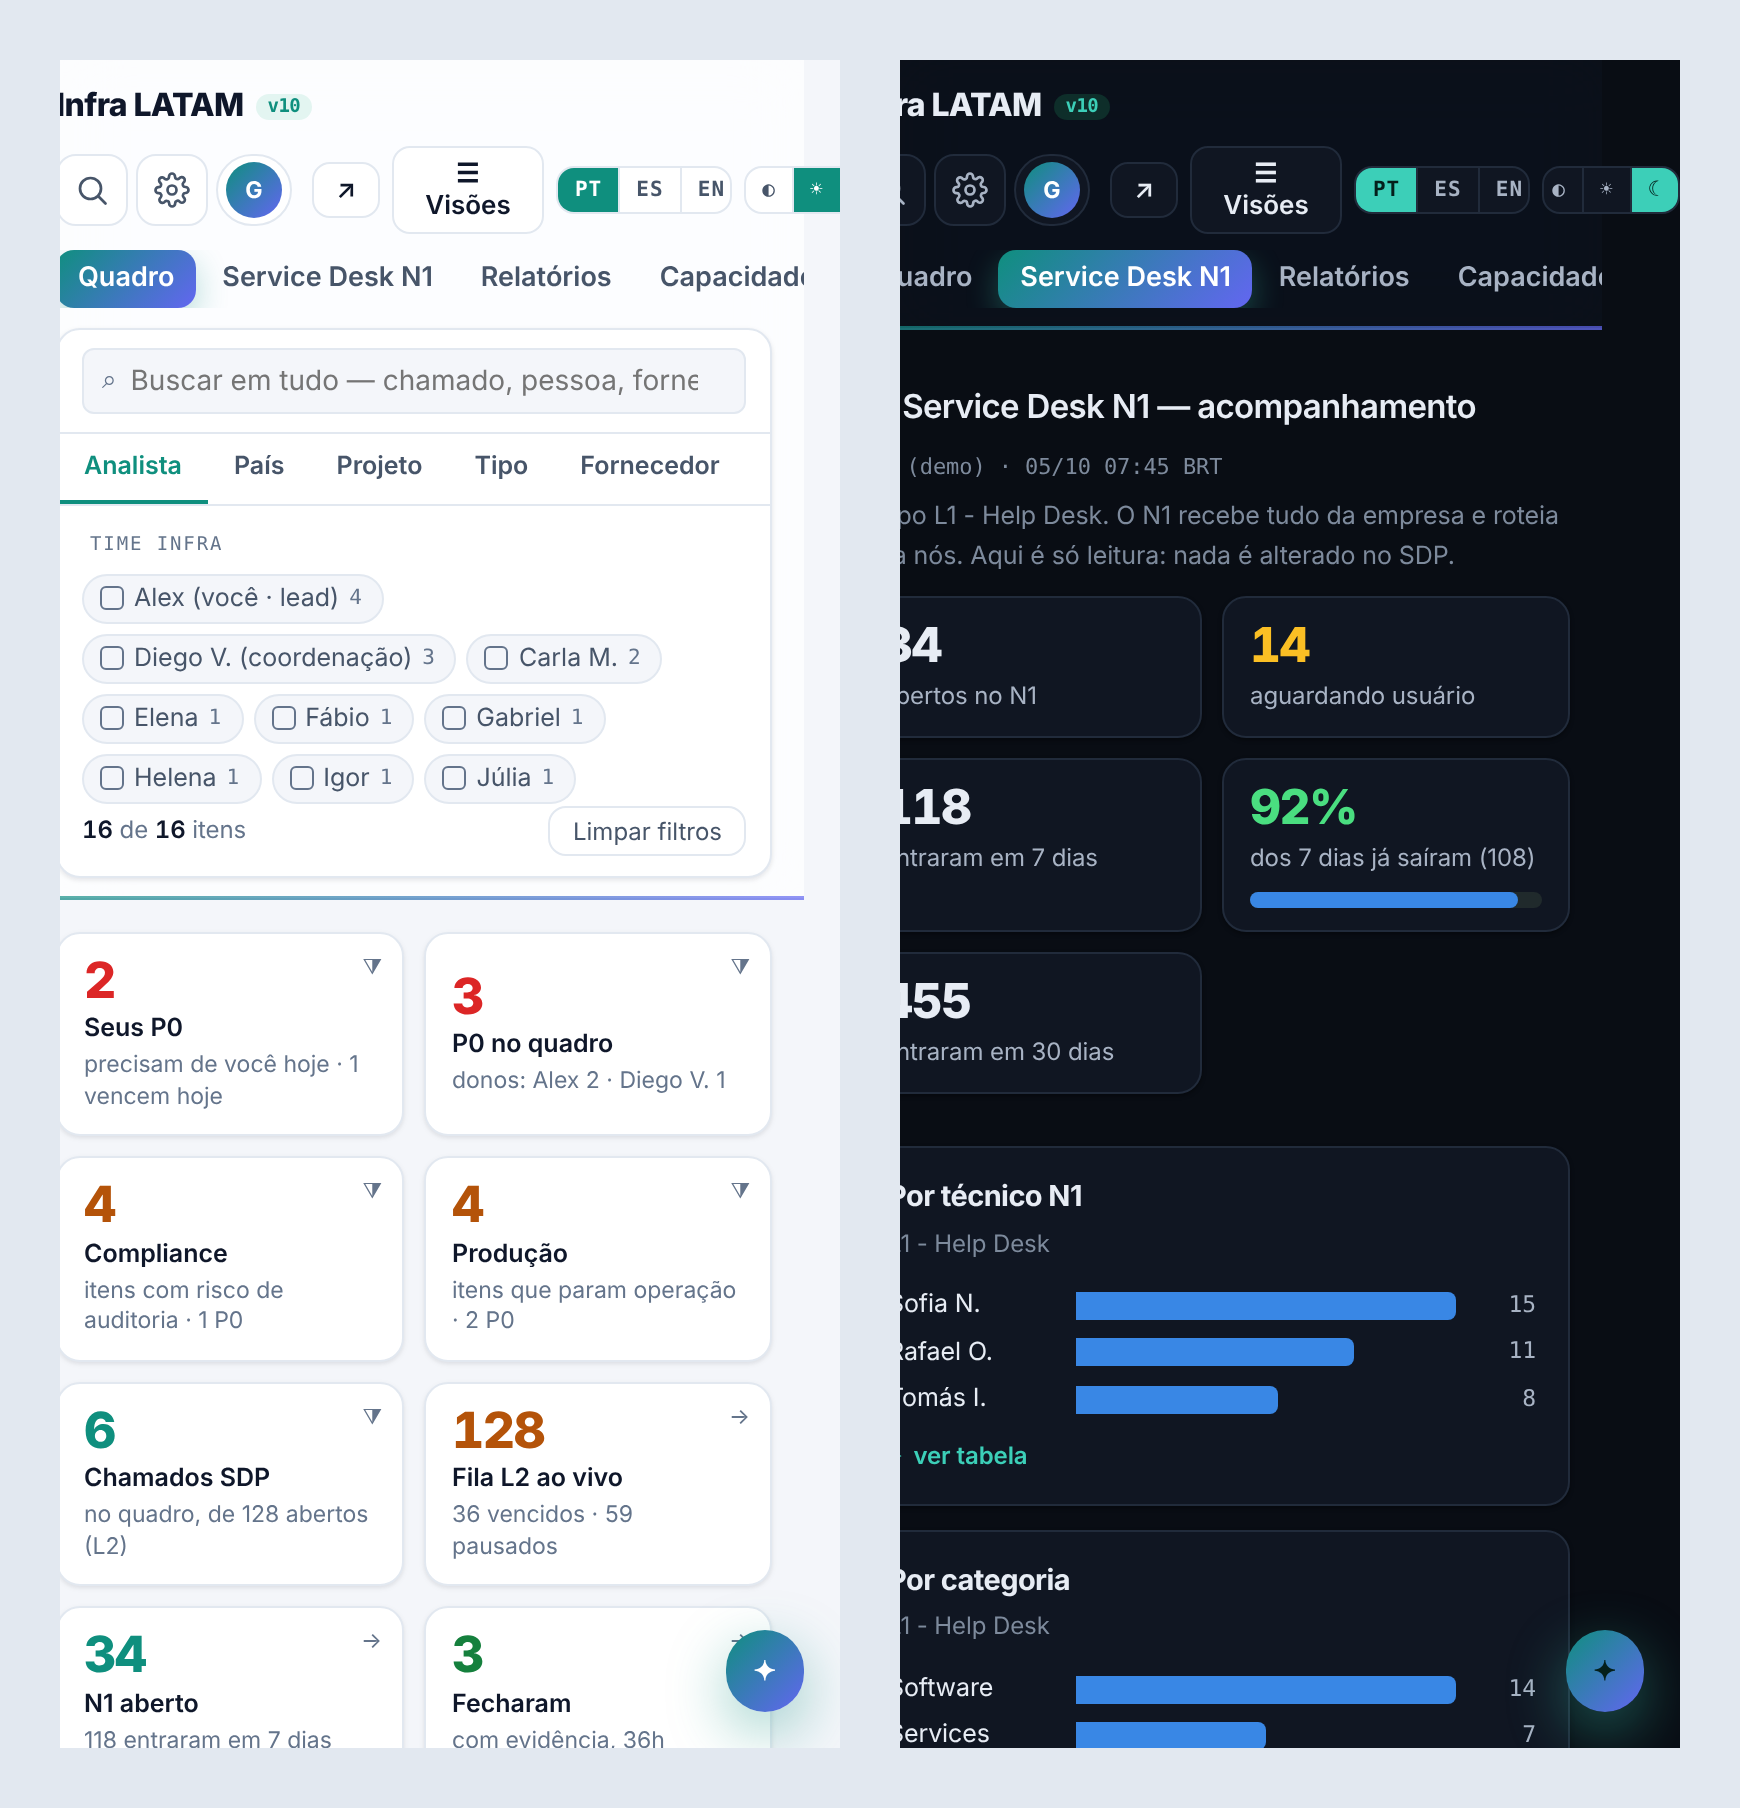
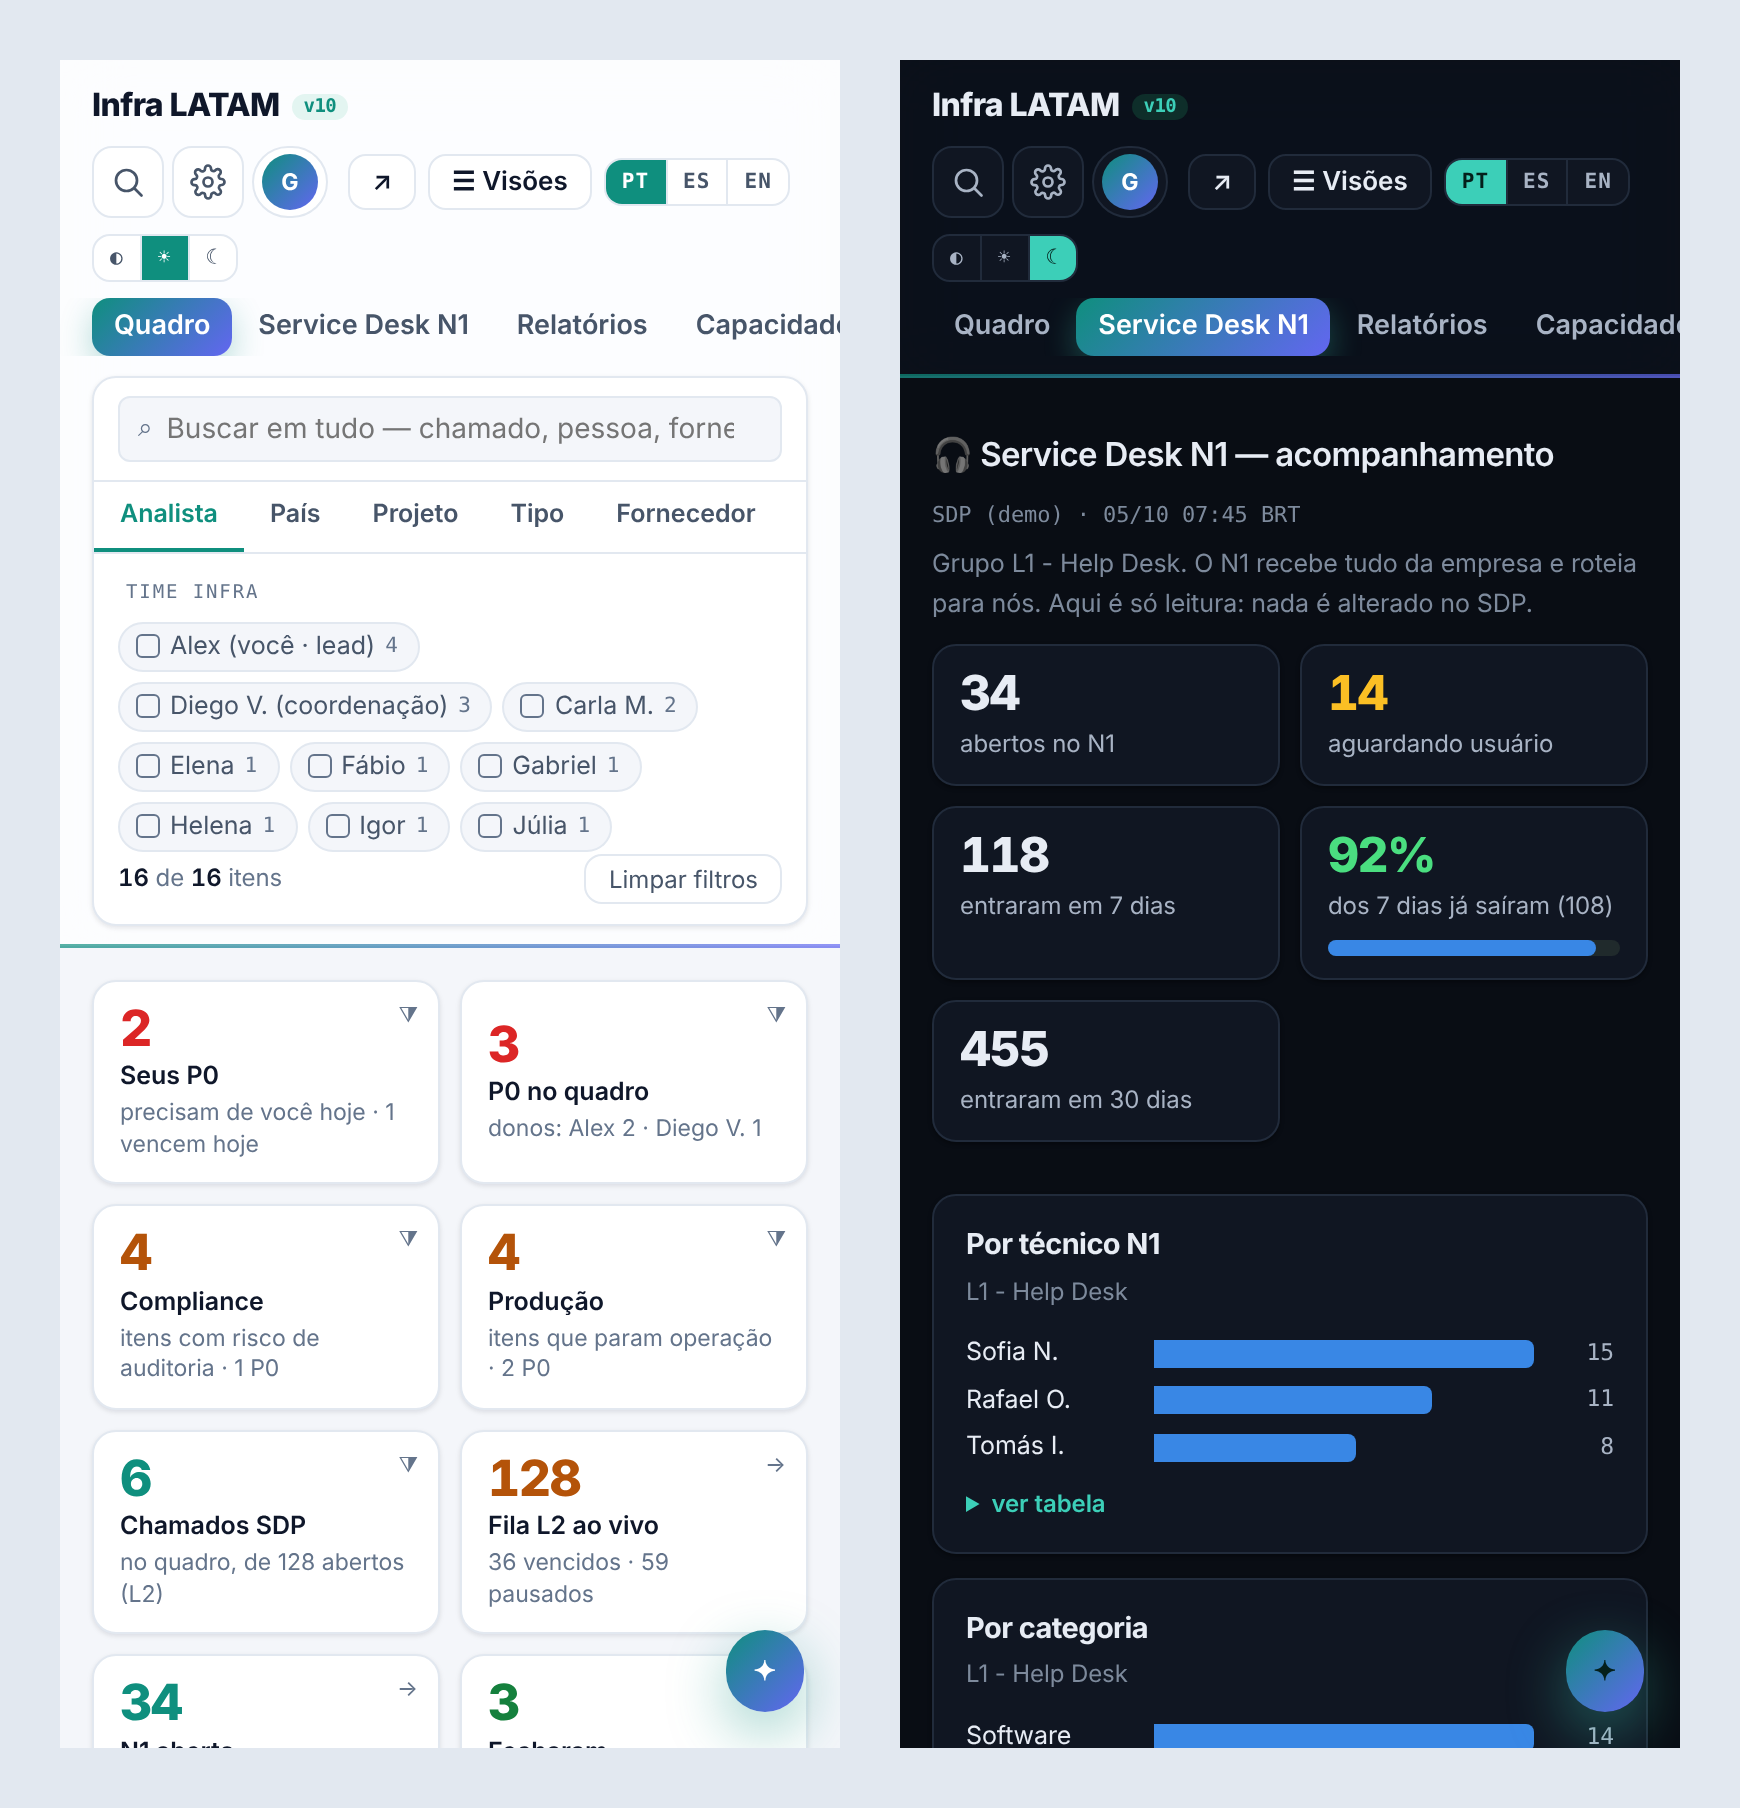
fix: v2.0.1 mobile overflow + v2 screenshots

diff --git a/assets/portal.css b/assets/portal.css
@@ -353,3 +353,6 @@ html[data-product="backlog"] .fab{background:var(--pf-grad);box-shadow:0 10px 30
 /* v2 polish */
 [data-product=knoc] .brand small{font-size:8.5px;letter-spacing:.08em;white-space:nowrap;overflow:hidden;text-overflow:ellipsis;max-width:150px;display:block}
 @media (max-width:640px){.pf-invite{left:12px!important;right:12px!important;transform:none!important;flex-wrap:wrap;justify-content:center;text-align:center;border-radius:18px!important}.pf-invite span{flex:1 1 100%}}
+/* v2.0.1: no sideways scroll on phones */
+html,body{overflow-x:clip}
+@media (max-width:640px){[data-product=backlog] .tools{flex-wrap:wrap!important;justify-content:flex-start!important;row-gap:8px;max-width:100%}}
